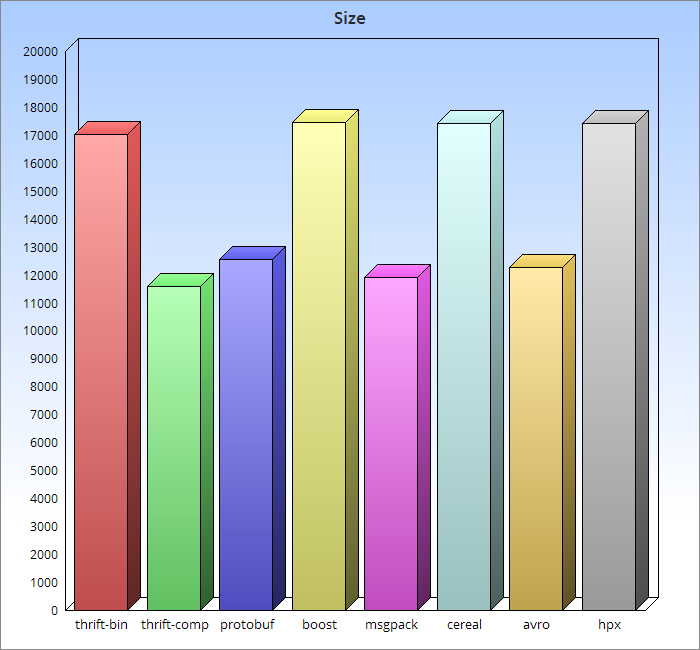
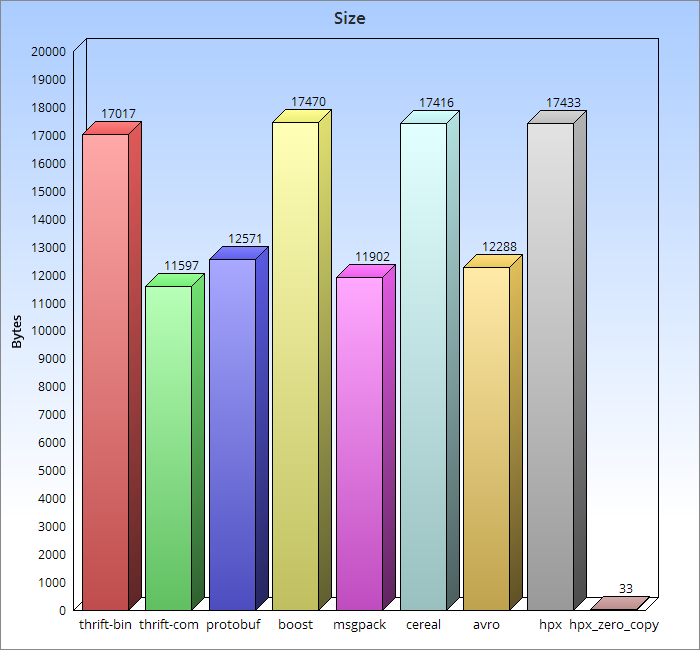
Added hpx_zero_copy serialization benchmark

diff --git a/test.cpp b/test.cpp
@@ -28,6 +28,7 @@
 #include "cereal/record.hpp"
 #include "avro/record.hpp"
 #include "hpx/record.hpp"
+#include "hpx_zero_copy/record.hpp"
 
 #include "data.hpp"
 
@@ -432,6 +433,43 @@ void hpx_serialization_test(size_t iterations)
     std::cout << "hpx: time = " << duration << " milliseconds" << std::endl << std::endl;
 }
 
+void hpx_zero_copy_serialization_test(size_t iterations)
+{
+    using namespace hpx_zero_copy_test;
+
+    Record r1, r2;
+
+    for (size_t i = 0; i < kIntegers.size(); i++) {
+        r1.ids.push_back(kIntegers[i]);
+    }
+
+    for (size_t i = 0; i < kStringsCount; i++) {
+        r1.strings.push_back(kStringValue);
+    }
+
+    std::string serialized;
+
+    to_string(r1, serialized);
+    from_string(r2, serialized);
+
+    if (r1 != r2) {
+        throw std::logic_error("hpx's case: deserialization failed");
+    }
+
+    std::cout << "hpx: size = " << serialized.size() << " bytes" << std::endl;
+
+    auto start = std::chrono::high_resolution_clock::now();
+    for (size_t i = 0; i < iterations; i++) {
+        serialized.clear();
+        to_string(r1, serialized);
+        from_string(r2, serialized);
+    }
+    auto finish = std::chrono::high_resolution_clock::now();
+    auto duration = std::chrono::duration_cast<std::chrono::milliseconds>(finish - start).count();
+
+    std::cout << "hpx: time = " << duration << " milliseconds" << std::endl << std::endl;
+}
+
 int
 main(int argc, char **argv)
 {
@@ -502,6 +540,10 @@ main(int argc, char **argv)
 
         if (names.empty() || names.find("hpx") != names.end()) {
             hpx_serialization_test(iterations);
+        }
+
+        if (names.empty() || names.find("hpx_zero_copy") != names.end()) {
+            hpx_zero_copy_serialization_test(iterations);
         }
     } catch (std::exception &exc) {
         std::cerr << "Error: " << exc.what() << std::endl;

diff --git a/hpx_zero_copy/record.hpp b/hpx_zero_copy/record.hpp
@@ -1,0 +1,69 @@
+#ifndef __HPX_ZERO_COPY_RECORD_HPP_INCLUDED__
+#define __HPX_ZERO_COPY_RECORD_HPP_INCLUDED__
+
+#include <vector>
+#include <string>
+#include <sstream>
+
+#include <stdint.h>
+
+#include <hpx/runtime/serialization/serialize.hpp>
+#include <hpx/runtime/serialization/string.hpp>
+#include <hpx/runtime/serialization/array.hpp>
+
+namespace hpx_zero_copy_test {
+
+typedef std::vector<int64_t>     Integers;
+typedef std::vector<std::string> Strings;
+
+class Record {
+public:
+
+    Integers ids;
+    Strings  strings;
+
+    bool operator==(const Record &other) {
+        return (ids == other.ids && strings == other.strings);
+    }
+
+    bool operator!=(const Record &other) {
+        return !(*this == other);
+    }
+
+private:
+    friend class hpx::serialization::access;
+
+    template<typename Archive>
+    void save(Archive &ar, unsigned int) const
+    {
+        ar & ids.size();
+        ar & hpx::serialization::make_array(ids.data(), ids.size());
+
+        ar & strings.size();
+        ar & hpx::serialization::make_array(strings.data(), strings.size());
+    }
+
+    template <typename Archive>
+    void load(Archive& ar, unsigned)
+    {
+        {
+            std::vector<int>::size_type size;
+            ar & size; ids.resize(size);
+            ar & hpx::serialization::make_array(ids.data(), ids.size());
+        }
+
+        {
+            std::vector<std::string>::size_type size;
+            ar & size; strings.resize(size);
+            ar & hpx::serialization::make_array(strings.data(), strings.size());
+        }
+    }
+    HPX_SERIALIZATION_SPLIT_MEMBER();
+};
+
+void to_string(const Record &record, std::string& data);
+void from_string(Record &record, const std::string& data);
+
+} // namespace
+
+#endif

diff --git a/hpx_zero_copy/record.cpp b/hpx_zero_copy/record.cpp
@@ -1,0 +1,22 @@
+#include "hpx_zero_copy/record.hpp"
+
+namespace hpx_zero_copy_test {
+
+static std::vector<hpx::serialization::serialization_chunk> chunks;
+
+void
+to_string(const Record &record, std::string& data)
+{
+    chunks.clear();
+    hpx::serialization::output_archive archiver(data, 0u, 0u, &chunks);
+    archiver << record;
+}
+
+void
+from_string(Record &record, const std::string& data)
+{
+    hpx::serialization::input_archive archiver(data, 0u, &chunks);
+    archiver >> record;
+}
+
+} // namespace

diff --git a/README.md b/README.md
@@ -50,6 +50,7 @@ on a typical desktop computer with Intel Core i5 processor running Ubuntu 14.04.
 | cereal         | 17416         | 13309           |
 | avro           | 12288         | 38225           |
 | hpx            | 17433         | 15847           |
+| hpx_zero_copy  | 33            | 860             |
 
 Size mesuared in bytes, time mesuared in milliseconds.
 
